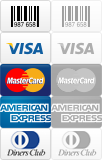
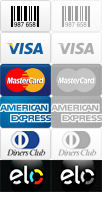
Implementação da bandeira ELO

diff --git a/js/iugu/prototype/validation.js b/js/iugu/prototype/validation.js
@@ -5,6 +5,7 @@
  */
 
 Validation.creditCartTypes = $H({
+    'EL': [null, null, true, new RegExp('^(506[0-9]|431274|438935|451416|457393|45763[1-2]|506(699|7[0-6][0-9]|77[0-8])|509\d{3}|504175|627780|636297|636368|65003[1-3]|6500(3[5-9]|4[0-9]|5[0-1])|6504(0[5-9]|[1-3][0-9])|650(4[8-9][0-9]|5[0-2][0-9]|53[0-8])|6505(4[1-9]|[5-8][0-9]|9[0-8])|6507(0[0-9]|1[0-8])|65072[0-7]|6509(0[1-9]|1[0-9]|20)|6516(5[2-9]|[6-7][0-9])|6550([0-1][0-9]|2[1-9]|[3-4][0-9]|5[0-8]))')],
     'DC': [new RegExp('^3(?:0[0-5]|[68][0-9])[0-9]{11}$'), new RegExp('^[0-9]{3}$'), true, new RegExp('^3(?:0[0-5]|[68][0-9])')],
     'AE': [new RegExp('^3[47][0-9]{13}$'), new RegExp('^[0-9]{4}$'), true, new RegExp('^3[47]')],
     'VI': [new RegExp('^4[0-9]{12}([0-9]{3})?$'), new RegExp('^[0-9]{3}$'), true, new RegExp('^4')],

diff --git a/skin/frontend/base/default/iugu/css/styles.css b/skin/frontend/base/default/iugu/css/styles.css
@@ -11,6 +11,8 @@
 .iugu-payment-icons li.AE.on { background-position: 0 -96px; }
 .iugu-payment-icons li.DC { background-position: -51px -128px; }
 .iugu-payment-icons li.DC.on { background-position: 0 -128px; }
+.iugu-payment-icons li.EL { background-position: -51px -160px; }
+.iugu-payment-icons li.EL.on { background-position: 0 -160px; }
 .iugu-cvv { position: relative; }
 .iugu-cvv input.cvv { width: 4em !important; }
 .iugu-cvv-tool-tip { position: absolute; display: inline-block; left: 5em; top: 0; }

diff --git a/app/code/community/Inovarti/Iugu/Model/Source/Cctype.php b/app/code/community/Inovarti/Iugu/Model/Source/Cctype.php
@@ -8,7 +8,7 @@ class Inovarti_Iugu_Model_Source_Cctype extends Mage_Payment_Model_Source_Cctype
 {
     public function getAllowedTypes()
     {
-        return array('VI', 'MC', 'AE', 'DC');
+        return array('VI', 'MC', 'AE', 'DC', 'EL');
     }
 
     public function getTypeByBrand($brand)
@@ -19,6 +19,7 @@ class Inovarti_Iugu_Model_Source_Cctype extends Mage_Payment_Model_Source_Cctype
             'mastercard'    => 'MC',
             'amex'          => 'AE',
             'diners'        => 'DC',
+            'elo'           => 'EL',
         );
 
         $type = isset($data[$brand]) ? $data[$brand] : null;
